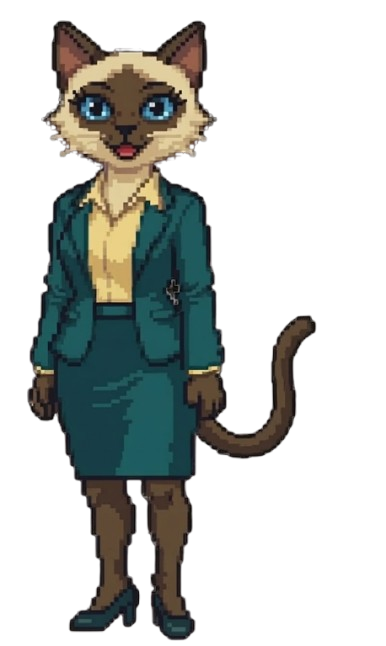
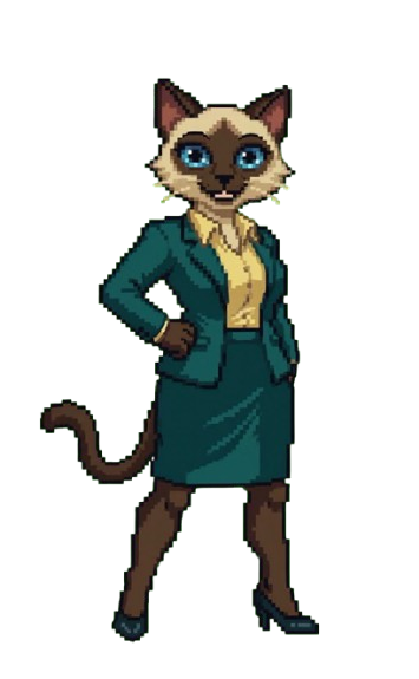
Fix runtime errors and add Next button for judge chat bubble

diff --git a/apps/web/app/page.jsx b/apps/web/app/page.jsx
@@ -252,7 +252,9 @@ export default function Page() {
                   ? `Player replies sent: ${chatHistory.length}`
                   : "";
 
-  const showAdvance = phase === "offer-dialogue" && Boolean(activeOfferLine);
+  const showAdvance =
+    (phase === "offer-dialogue" && Boolean(activeOfferLine)) ||
+    (phase === "judging" && !chatEnabled && Boolean(latestPanelQuestion));
 
   function playAudioEffect(audioRef) {
     const audio = audioRef.current;
@@ -432,8 +434,6 @@ export default function Page() {
     setCountdownValue(COUNTDOWN_START);
     setPhase("countdown");
 
-    setGroupIndex(0);
-    setLineIndex(0);
     setChatEnabled(false);
     setChatInput("");
     setChatHistory([]);
@@ -518,8 +518,14 @@ export default function Page() {
         return;
       }
 
-      if (offerLineIndex < OFFER_CONVERSATION.length - 1) {
-        setOfferLineIndex((current) => current + 1);
+      const currentText = activeOfferLine.text;
+      let nextIndex = offerLineIndex + 1;
+      while (nextIndex < OFFER_CONVERSATION.length && OFFER_CONVERSATION[nextIndex].text === currentText) {
+        nextIndex++;
+      }
+
+      if (nextIndex < OFFER_CONVERSATION.length) {
+        setOfferLineIndex(nextIndex);
         return;
       }
 
@@ -536,10 +542,19 @@ export default function Page() {
       }
 
       setPhase("offer-select");
+      return;
+    }
+
+    if (phase === "judging" && panelAwaitingAnswer) {
+      setChatEnabled(true);
     }
   }
 
   function advancePanelTurn(questionText) {
+    const prevQuestion = [...(roundStateRef.current.panel?.events || [])]
+      .reverse()
+      .find((e) => e.type === PANEL_EVENT_TYPES.JUDGE_QUESTION);
+
     const nextState = commitRoundAction({
       type: PLAYER_ACTIONS.ADVANCE_PANEL_TURN,
       payload: questionText ? { question: questionText } : {}
@@ -570,6 +585,19 @@ export default function Page() {
     }
 
     if (nextState.panel?.awaitingAnswer) {
+      const newQuestion = [...(nextState.panel.events || [])]
+        .reverse()
+        .find((e) => e.type === PANEL_EVENT_TYPES.JUDGE_QUESTION);
+
+      if (prevQuestion && newQuestion && newQuestion.text === prevQuestion.text) {
+        commitRoundAction({
+          type: PLAYER_ACTIONS.SUBMIT_ANSWER,
+          payload: { answer: "..." }
+        });
+        advancePanelTurn();
+        return;
+      }
+
       setChatEnabled(true);
     }
   }
@@ -761,7 +789,7 @@ export default function Page() {
 
   useEffect(() => {
     const isJudgeTalking =
-      (phase === "judging" && !chatEnabled && Boolean(activeLine)) ||
+      (phase === "judging" && !chatEnabled && Boolean(latestPanelQuestion)) ||
       (phase === "offer-dialogue" && Boolean(activeOfferLine));
 
     const isPlayerPitchingOrWriting = phase === "pitch" || (phase === "judging" && chatEnabled);
@@ -787,7 +815,7 @@ export default function Page() {
     }
 
     playBackgroundMusic("nothing");
-  }, [phase, chatEnabled, activeLine, activeOfferLine]);
+  }, [phase, chatEnabled, latestPanelQuestion, activeOfferLine]);
 
   useEffect(() => {
     if (phase !== "result" || !roundResult || hasPlayedResultAudioRef.current) {
